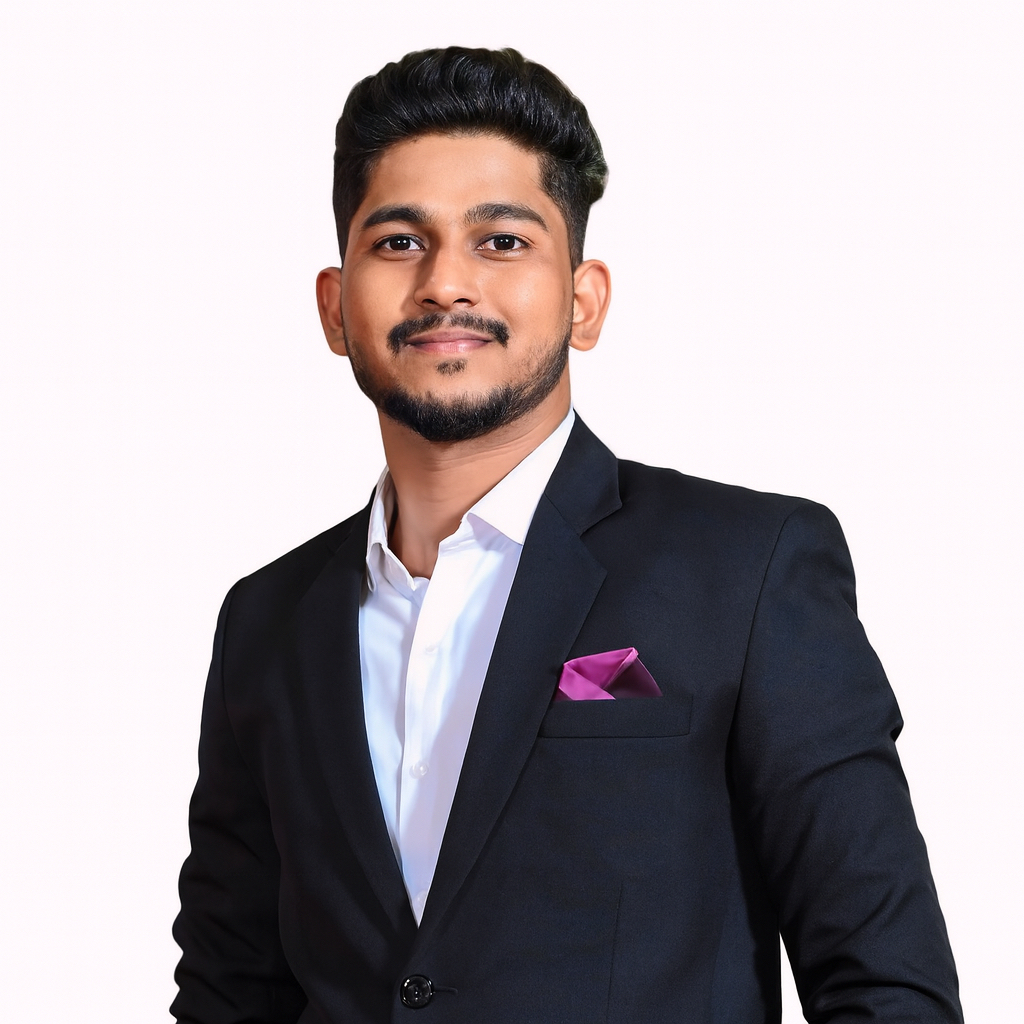
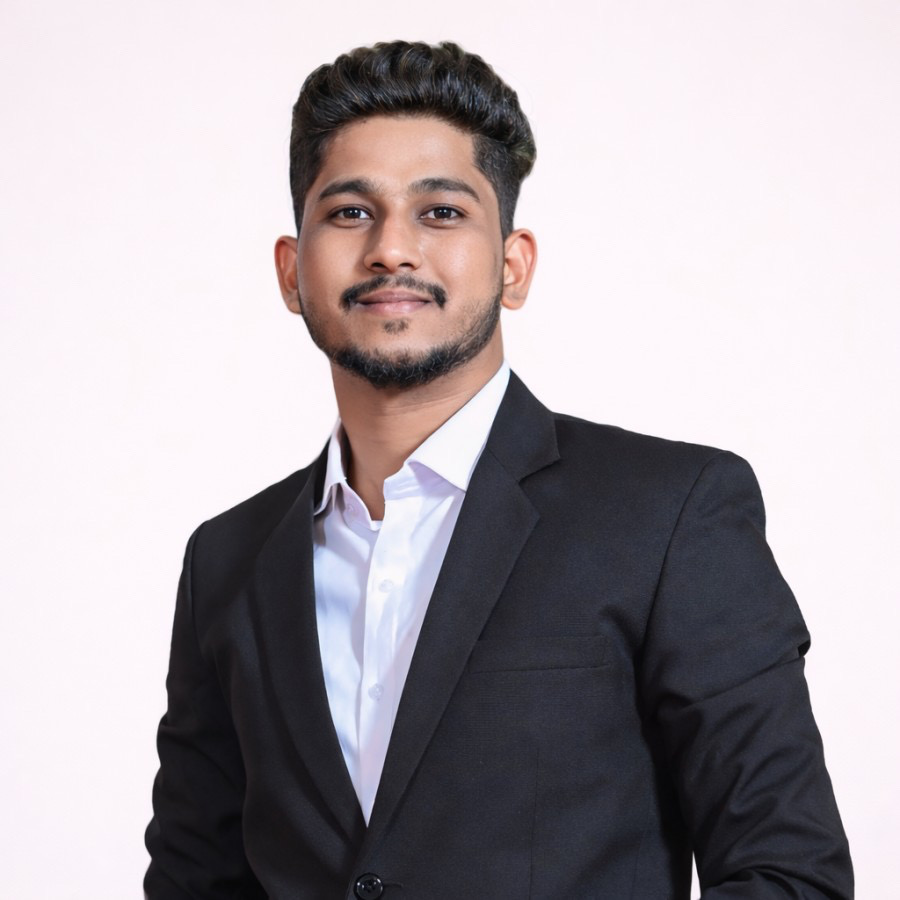
Update mail configurations and new resume uploads for deployment

diff --git a/config/mail.php b/config/mail.php
@@ -43,6 +43,7 @@ return [
             'url' => env('MAIL_URL'),
             'host' => env('MAIL_HOST', '127.0.0.1'),
             'port' => env('MAIL_PORT', 2525),
+            'encryption' => env('MAIL_ENCRYPTION', 'tls'),
             'username' => env('MAIL_USERNAME'),
             'password' => env('MAIL_PASSWORD'),
             'timeout' => 10,
@@ -51,8 +52,8 @@ return [
             'stream' => [
                 'ssl' => [
                     'allow_self_signed' => true,
-                    'verify_peer' => false,
-                    'verify_peer_name' => false,
+                    'verify_peer' => env('MAIL_VERIFY_PEER', false),
+                    'verify_peer_name' => env('MAIL_VERIFY_PEER', false),
                 ],
             ],
         ],

diff --git a/database/seeders/ExperienceSeeder.php b/database/seeders/ExperienceSeeder.php
@@ -18,7 +18,7 @@ class ExperienceSeeder extends Seeder
                 'title' => 'Junior Software Developer',
                 'company' => 'TH Systems Pvt Ltd',
                 'location' => 'Pune, Maharashtra',
-                'start_date' => '2024-10-01',
+                'start_date' => '2024-10-14',
                 'end_date' => null,
                 'description' => 'Developed HRMS and HIMS using Angular (web) and Ionic (mobile). Backend with Laravel and MySQL; handled SQL Server data ops; hands-on with AWS, Docker, GitHub.',
             ],